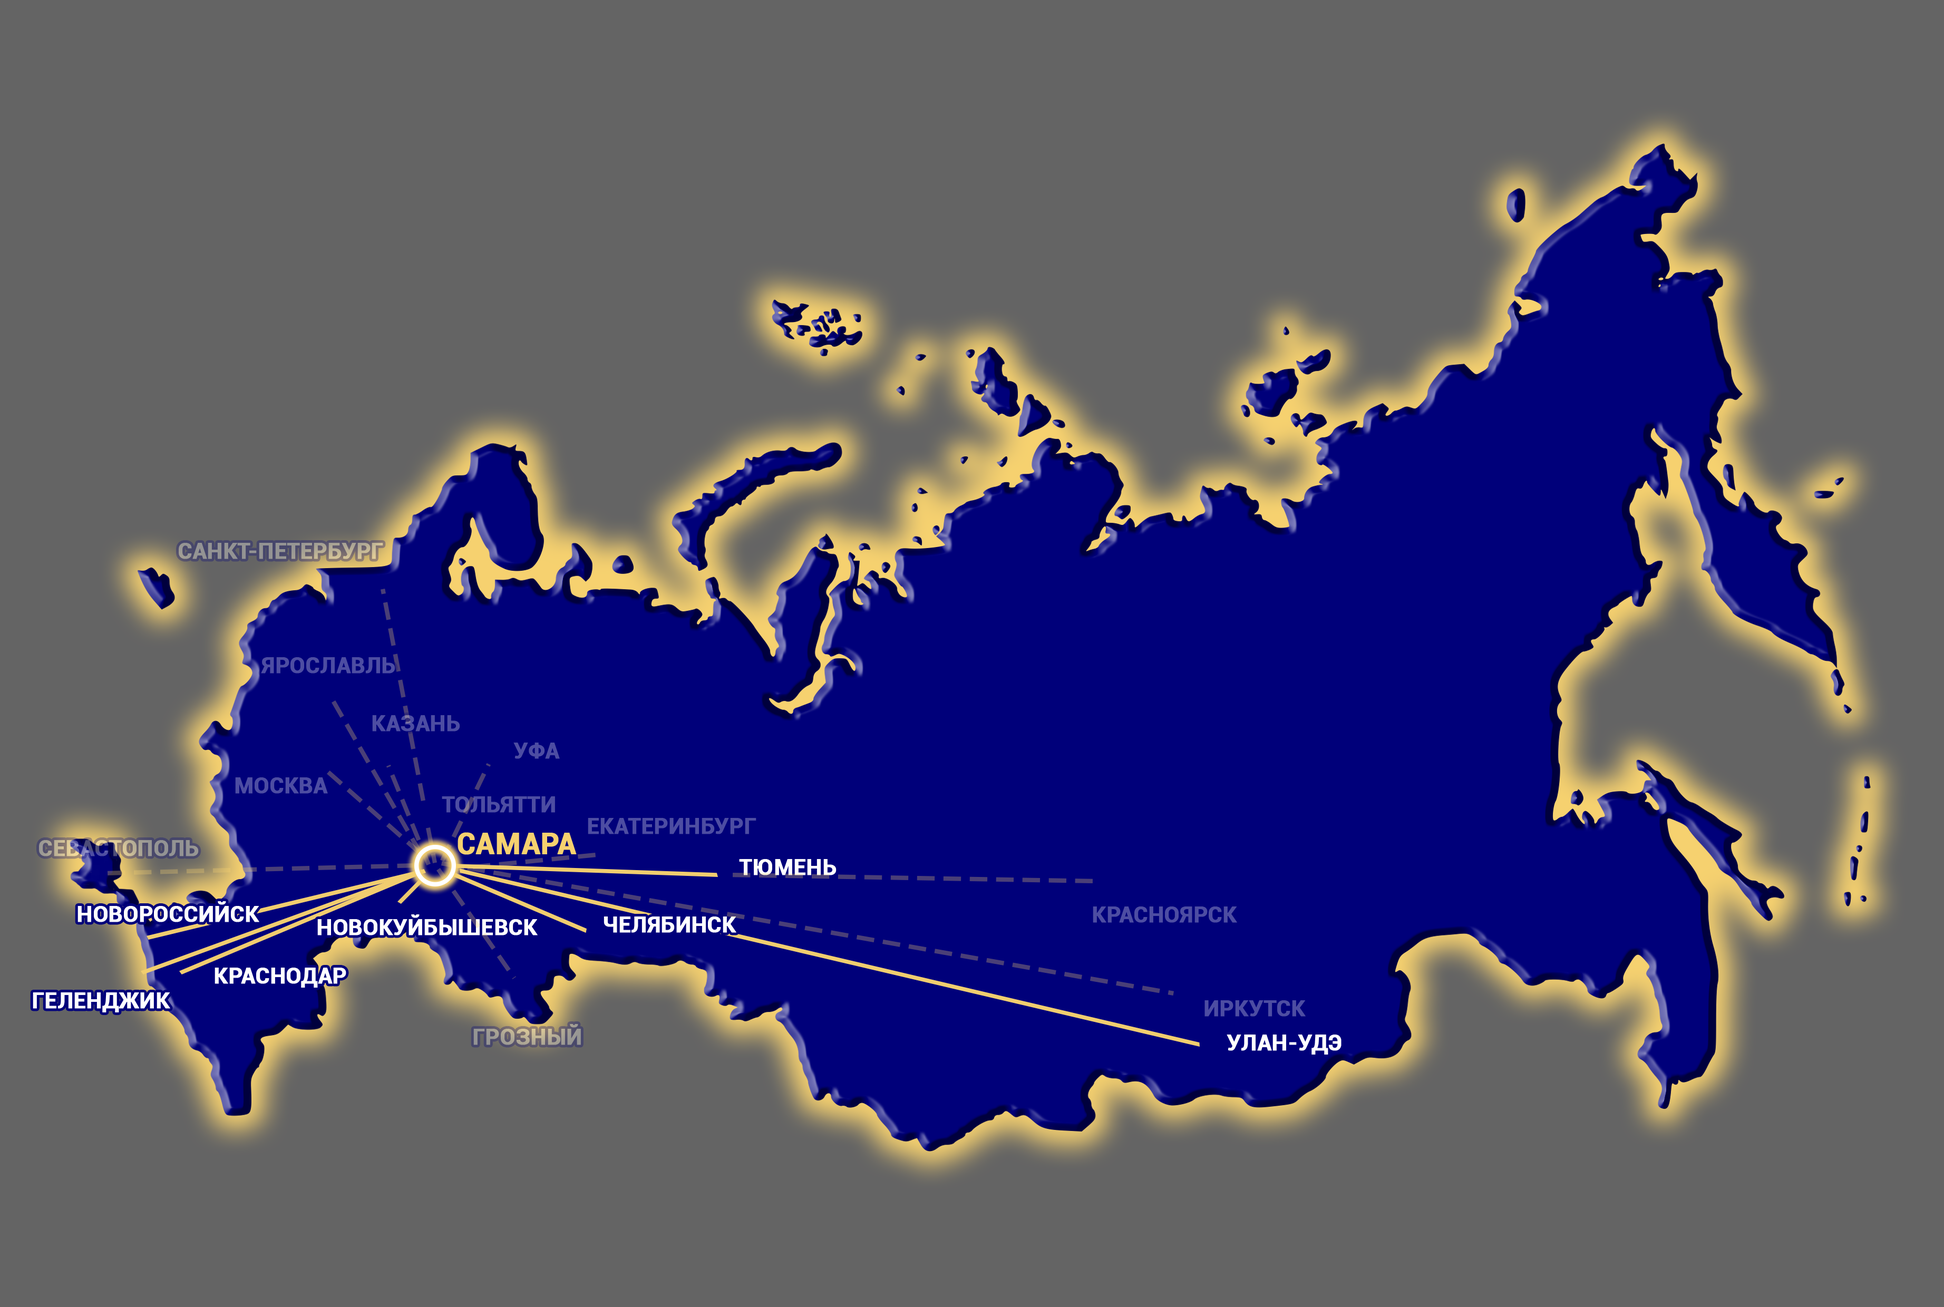
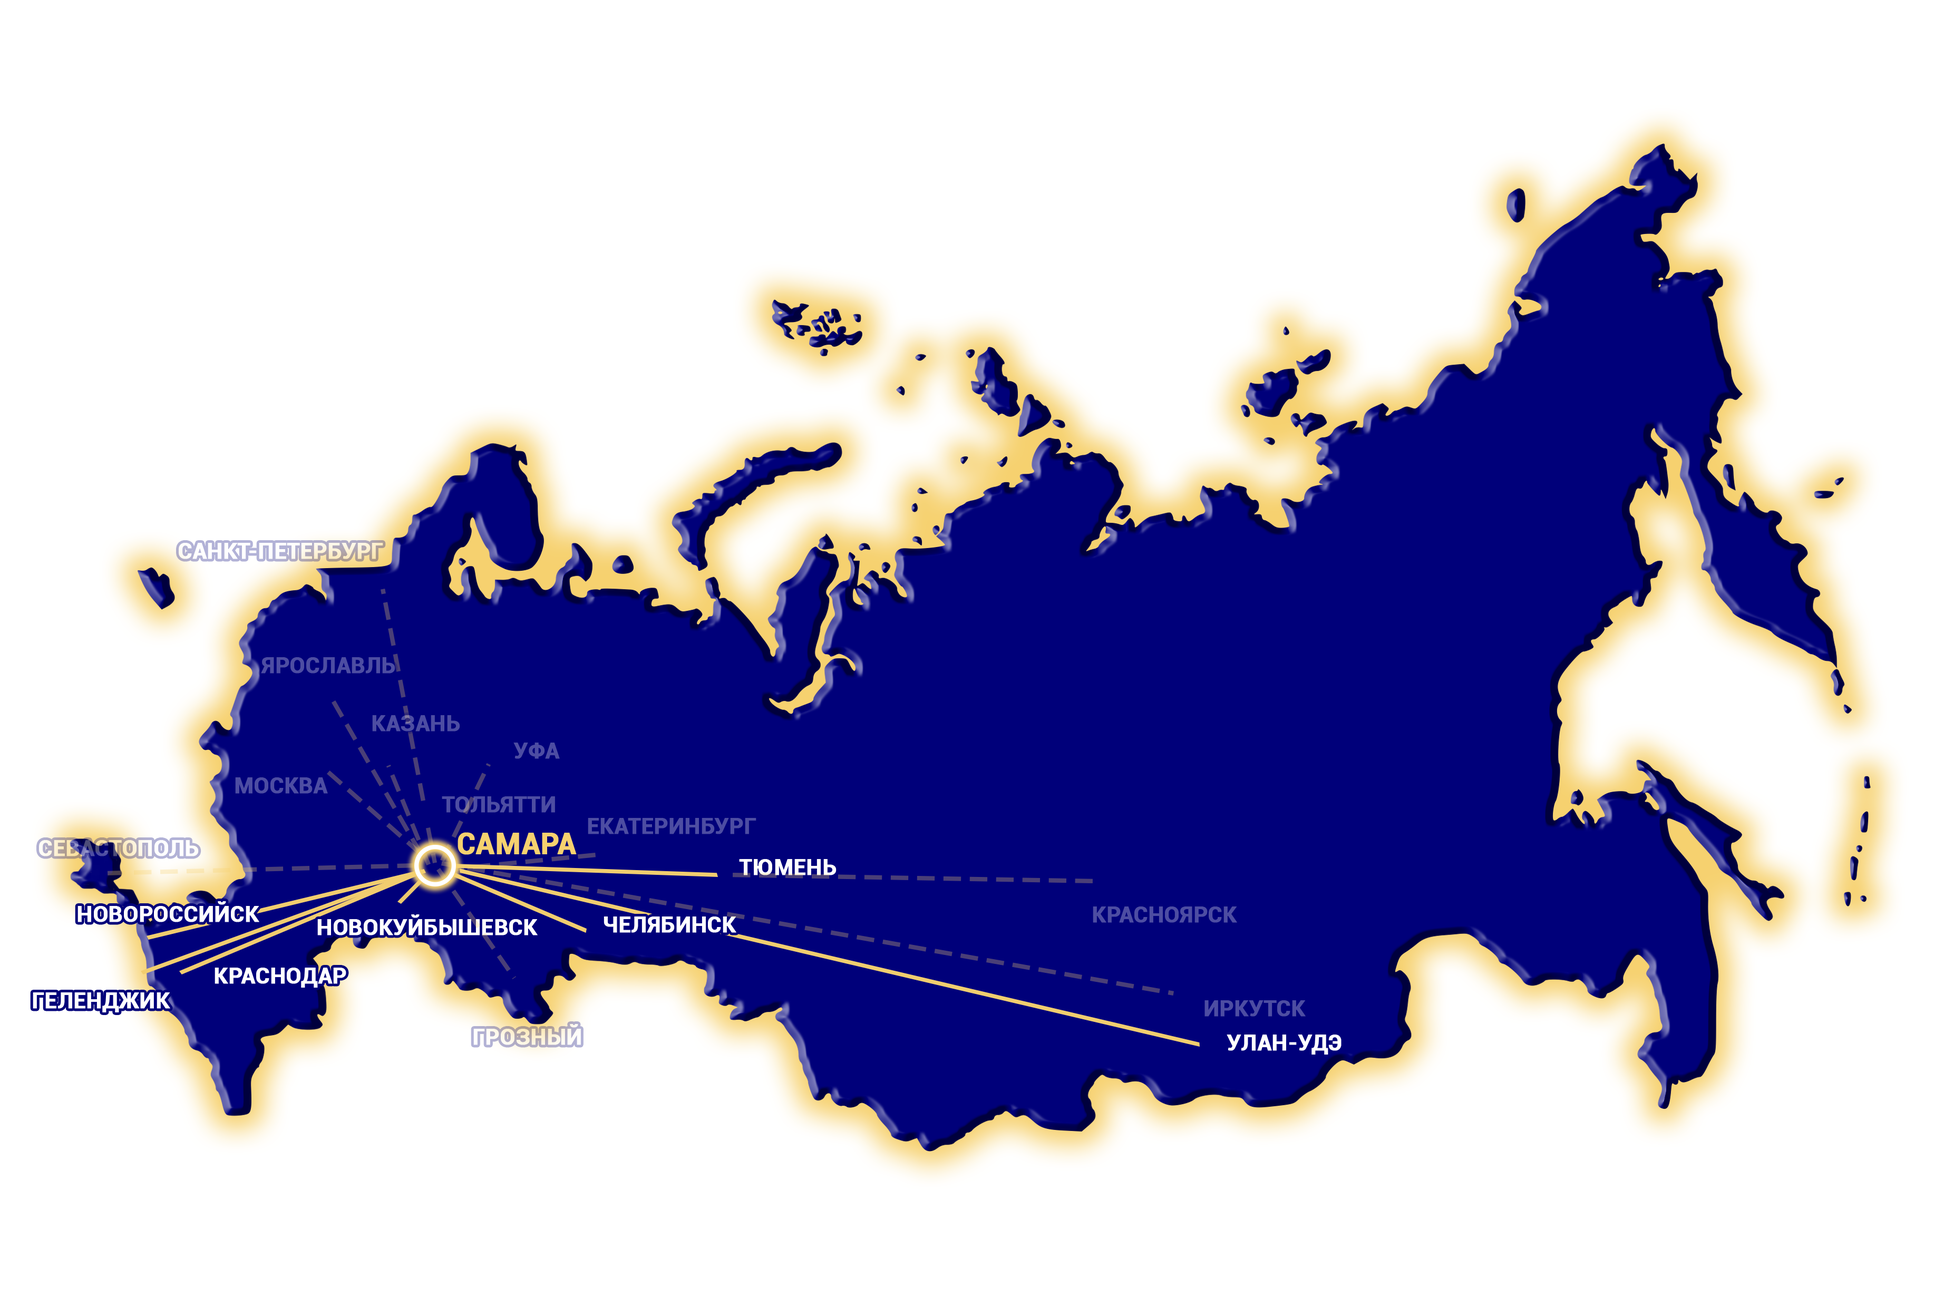
s

diff --git a/karta/css/style.min.css b/karta/css/style.min.css
@@ -1,1 +1,1 @@
-*{margin:0;padding:0;-webkit-tap-highlight-color:rgba(0,0,0,0)}.karta{margin:0 auto;background:url(../img/Карта1.png);height:500px;position:relative;width:800px;background-repeat:no-repeat;background-position:center;background-size:100%}.karta__active{width:6px;position:absolute;height:6px;border-radius:50%;border:1px solid #dabd6d;box-shadow:0 0 2px 2px #dabd6d;cursor:pointer;-webkit-animation:boxShadowPulse .9s infinite linear;animation:boxShadowPulse .9s infinite linear;animation-direction:alternate-reverse;background-color:#00007a}.karta__not-active{width:6px;position:absolute;height:6px;border-radius:50%;border:1px solid #393177;box-shadow:0 0 2px 2px #7066b8;background-color:#00007a;cursor:pointer}#tolyati{top:313px;left:21.3%}#tolyati:hover::before{-webkit-animation:pulse 1s;animation:pulse 1s;content:"";width:200px;position:absolute;top:-100px;left:10px;background-image:url(../img/Всплывашка_7.png);background-size:cover;height:100px;z-index:1}.pulse{top:333px;width:3px;position:absolute;height:3px;border-radius:50%;border:1px solid #dabd6d;background-color:#dabd6d;left:175.4px}#samara{top:333px;left:175.4px}#samara:hover::before{-webkit-animation:pulse 1s;animation:pulse 1s;content:"";width:200px;position:absolute;top:-100px;left:10px;z-index:1;background-image:url(../img/Всплывашка_1.png);background-size:cover;height:100px}#chelyabinsk{top:360px;left:236px}#chelyabinsk:hover::before{-webkit-animation:pulses 1s;animation:pulses 1s;content:"";width:210px;position:absolute;top:-100px;z-index:1;left:10px;background-image:url(../img/ВсплывашкаЧелябинск.png);background-size:cover;height:100px}#chelyabinsk:focus::before{-webkit-animation:pulse 1s;animation:pulse 1s;content:"";width:200px;z-index:1;position:absolute;top:-100px;left:10px;background-image:url(../img/Всплывашка_2.png);background-size:cover;height:100px}#newKub{top:348px;left:161px}#newKub:hover::before{-webkit-animation:pulses 1s;animation:pulses 1s;content:"";width:210px;position:absolute;z-index:1;top:-100px;left:10px;background-image:url(../img/ВсплывашкаНовокуйбышевск.png);background-size:cover;height:100px}#newKub:focus::before{-webkit-animation:pulse 1s;animation:pulse 1s;content:"";width:200px;z-index:1;position:absolute;top:-100px;left:10px;background-image:url(../img/Всплывашка_3.png);background-size:cover;height:100px}#newRos{top:363px;box-shadow:0 0 1px 2px #ffdb77;left:56px}#newRos:hover::before{-webkit-animation:pulse 1s;animation:pulse 1s;content:"";width:200px;z-index:1;position:absolute;top:-100px;left:10px;background-image:url(../img/Всплывашка_5.png);background-size:cover;height:100px}#newRos:focus::before{-webkit-animation:pulse 1s;animation:pulse 1s;content:"";width:200px;position:absolute;top:-100px;z-index:1;left:10px;background-image:url(../img/Всплывашка_5.png);background-size:cover;height:100px}#gelendgik{top:377px;box-shadow:0 0 1px 2px #ffdb77;left:55px}#gelendgik:hover::before{-webkit-animation:pulses 1s;animation:pulses 1s;content:"";width:210px;z-index:1;position:absolute;top:-100px;left:10px;background-image:url(../img/ВсплывашкаГеленджик.png);background-size:cover;height:100px}#gelendgik:focus::before{-webkit-animation:pulse 1s;animation:pulse 1s;content:"";width:200px;position:absolute;top:-100px;z-index:1;left:10px;background-image:url(../img/ВсплывашкаГеленджик.png);background-size:cover;height:100px}#krasnodar{top:376px;box-shadow:0 0 1px 2px #ffdb77;left:74px}#krasnodar:hover::before{-webkit-animation:pulses 1s;animation:pulses 1s;content:"";width:210px;position:absolute;z-index:1;top:-100px;left:10px;background-image:url(../img/ВсплывашкаКраснодар.png);background-size:cover;height:100px}#krasnodar:focus::before{-webkit-animation:pulse 1s;animation:pulse 1s;content:"";width:200px;position:absolute;top:-100px;z-index:1;left:10px;background-image:url(../img/ВсплывашкаКраснодар.png);background-size:cover;height:100px}#tumen{top:337px;left:292px}#tumen:hover::before{-webkit-animation:pulses 1s;animation:pulses 1s;content:"";width:210px;position:absolute;z-index:1;top:-100px;left:10px;background-image:url(../img/ВсплывашкаТюмень.png);background-size:cover;height:100px}#ulan{top:406px;left:491px}#ulan:hover::before{-webkit-animation:pulses 1s;animation:pulses 1s;content:"";width:210px;z-index:1;position:absolute;top:-100px;left:10px;background-image:url(../img/ВсплывашкаУлан-Удэ.png);background-size:cover;height:100px}#moscow{top:289px;left:126px}#moscow:hover::before{-webkit-animation:pulse 1s;animation:pulse 1s;content:"";z-index:1;width:200px;position:absolute;top:-100px;left:10px;background-image:url(../img/Всплывашка_6.png);background-size:cover;height:100px}#ekaterenburg{top:328px;left:249px}#ekaterenburg:hover::before{-webkit-animation:pulse 1s;animation:pulse 1s;content:"";width:200px;position:absolute;top:-100px;left:10px;background-image:url(../img/Всплывашка_7.png);background-size:cover;height:100px;z-index:1}#sevastopol{top:336px;left:30px}#sevastopol:hover::before{-webkit-animation:pulse 1s;animation:pulse 1s;content:"";width:200px;position:absolute;top:-100px;left:10px;background-image:url(../img/Всплывашка_7.png);background-size:cover;height:100px;z-index:1}#yaroslavl{top:261px;left:130px}#yaroslavl:hover::before{-webkit-animation:pulse 1s;animation:pulse 1s;content:"";width:200px;position:absolute;top:-100px;left:10px;background-image:url(../img/Всплывашка_7.png);background-size:cover;height:100px;z-index:1}#kazan{top:287px;left:153px}#kazan:hover::before{-webkit-animation:pulse 1s;animation:pulse 1s;content:"";width:200px;position:absolute;top:-100px;left:10px;background-image:url(../img/Всплывашка_7.png);background-size:cover;height:100px;z-index:1}#ufa{top:286px;left:199px}#ufa:hover::before{-webkit-animation:pulse 1s;animation:pulse 1s;content:"";width:200px;position:absolute;top:-100px;left:10px;background-image:url(../img/Всплывашка_7.png);background-size:cover;height:100px;z-index:1}#krasnoyarsk{top:339px;left:450px}#krasnoyarsk:hover::before{-webkit-animation:pulse 1s;animation:pulse 1s;content:"";width:200px;position:absolute;top:-100px;left:10px;background-image:url(../img/Всплывашка_7.png);background-size:cover;height:100px;z-index:1}#irkutsk{top:386px;left:483.5px}#irkutsk:hover::before{-webkit-animation:pulse 1s;animation:pulse 1s;content:"";width:200px;position:absolute;top:-100px;left:10px;background-image:url(../img/Всплывашка_7.png);background-size:cover;height:100px;z-index:1}#grosniy{top:385px;left:212px}#grosniy:hover::before{-webkit-animation:pulse 1s;animation:pulse 1s;content:"";width:200px;position:absolute;top:-100px;left:10px;background-image:url(../img/Всплывашка_7.png);background-size:cover;height:100px;z-index:1}#peterburg{top:214px;left:152px}#peterburg:hover::before{-webkit-animation:pulse 1s;animation:pulse 1s;content:"";width:200px;position:absolute;top:-100px;left:10px;background-image:url(../img/Всплывашка_7.png);background-size:cover;height:100px;z-index:1}@-webkit-keyframes pulse{0%{width:0}100%{width:200px}}@keyframes pulse{0%{width:0}100%{width:200px}}@-webkit-keyframes boxShadowPulse{0%{box-shadow:0 0 2px 2px #dabd6d}75%{box-shadow:0 0 2px 2px #dabd6d}100%{box-shadow:0 0 3px 5px #dabd6d}}@keyframes boxShadowPulse{0%{box-shadow:0 0 2px 2px #dabd6d}75%{box-shadow:0 0 2px 2px #dabd6d}100%{box-shadow:0 0 3px 5px #dabd6d}}
+*{margin:0;padding:0;-webkit-tap-highlight-color:rgba(0,0,0,0)}.karta,.karta2{margin:0 auto;background:url(../img/Карта1.png);height:500px;position:relative;width:800px;background-repeat:no-repeat;background-position:center;background-size:100%}.karta2__active,.karta__active{width:6px;position:absolute;height:6px;border-radius:50%;border:1px solid #dabd6d;box-shadow:0 0 2px 2px #dabd6d;cursor:pointer;-webkit-animation:boxShadowPulse .9s infinite linear;animation:boxShadowPulse .9s infinite linear;animation-direction:alternate-reverse;background-color:#00007a}.karta2__not-active,.karta__not-active{width:6px;position:absolute;height:6px;border-radius:50%;border:1px solid #b5adf1;box-shadow:0 0 2px 2px #b3addf;background-color:#00007a;cursor:pointer}.karta2{background:url(../img/Карта2.png)}#tolyati{top:313px;left:21.3%}#tolyati:hover::before{-webkit-animation:pulse 1s;animation:pulse 1s;content:"";width:200px;position:absolute;top:-100px;left:10px;background-image:url(../img/Всплывашка_7.png);background-size:cover;height:100px;z-index:1}.pulse{top:333px;width:3px;position:absolute;height:3px;border-radius:50%;border:1px solid #dabd6d;background-color:#dabd6d;left:175.4px}#samara{top:333px;left:175.4px}#samara:hover::before{-webkit-animation:pulse 1s;animation:pulse 1s;content:"";width:200px;position:absolute;top:-100px;left:10px;z-index:1;background-image:url(../img/Всплывашка_1.png);background-size:cover;height:100px}#chelyabinsk{top:360px;left:236px}#chelyabinsk:hover::before{-webkit-animation:pulses 1s;animation:pulses 1s;content:"";width:210px;position:absolute;top:-100px;z-index:1;left:10px;background-image:url(../img/ВсплывашкаЧелябинск.png);background-size:cover;height:100px}#chelyabinsk:focus::before{-webkit-animation:pulse 1s;animation:pulse 1s;content:"";width:200px;z-index:1;position:absolute;top:-100px;left:10px;background-image:url(../img/Всплывашка_2.png);background-size:cover;height:100px}#newKub{top:348px;left:161px}#newKub:hover::before{-webkit-animation:pulses 1s;animation:pulses 1s;content:"";width:210px;position:absolute;z-index:1;top:-100px;left:10px;background-image:url(../img/ВсплывашкаНовокуйбышевск.png);background-size:cover;height:100px}#newKub:focus::before{-webkit-animation:pulse 1s;animation:pulse 1s;content:"";width:200px;z-index:1;position:absolute;top:-100px;left:10px;background-image:url(../img/Всплывашка_3.png);background-size:cover;height:100px}#newRos{top:363px;box-shadow:0 0 1px 2px #ffdb77;left:56px}#newRos:hover::before{-webkit-animation:pulse 1s;animation:pulse 1s;content:"";width:200px;z-index:1;position:absolute;top:-100px;left:10px;background-image:url(../img/Всплывашка_5.png);background-size:cover;height:100px}#newRos:focus::before{-webkit-animation:pulse 1s;animation:pulse 1s;content:"";width:200px;position:absolute;top:-100px;z-index:1;left:10px;background-image:url(../img/Всплывашка_5.png);background-size:cover;height:100px}#gelendgik{top:377px;box-shadow:0 0 1px 2px #ffdb77;left:55px}#gelendgik:hover::before{-webkit-animation:pulses 1s;animation:pulses 1s;content:"";width:210px;z-index:1;position:absolute;top:-100px;left:10px;background-image:url(../img/ВсплывашкаГеленджик.png);background-size:cover;height:100px}#gelendgik:focus::before{-webkit-animation:pulse 1s;animation:pulse 1s;content:"";width:200px;position:absolute;top:-100px;z-index:1;left:10px;background-image:url(../img/ВсплывашкаГеленджик.png);background-size:cover;height:100px}#krasnodar{top:376px;box-shadow:0 0 1px 2px #ffdb77;left:74px}#krasnodar:hover::before{-webkit-animation:pulses 1s;animation:pulses 1s;content:"";width:210px;position:absolute;z-index:1;top:-100px;left:10px;background-image:url(../img/ВсплывашкаКраснодар.png);background-size:cover;height:100px}#krasnodar:focus::before{-webkit-animation:pulse 1s;animation:pulse 1s;content:"";width:200px;position:absolute;top:-100px;z-index:1;left:10px;background-image:url(../img/ВсплывашкаКраснодар.png);background-size:cover;height:100px}#tumen{top:337px;left:292px}#tumen:hover::before{-webkit-animation:pulses 1s;animation:pulses 1s;content:"";width:210px;position:absolute;z-index:1;top:-100px;left:10px;background-image:url(../img/ВсплывашкаТюмень.png);background-size:cover;height:100px}#ulan{top:406px;left:491px}#ulan:hover::before{-webkit-animation:pulses 1s;animation:pulses 1s;content:"";width:210px;z-index:1;position:absolute;top:-100px;left:10px;background-image:url(../img/ВсплывашкаУлан-Удэ.png);background-size:cover;height:100px}#moscow{top:289px;left:126px}#moscow:hover::before{-webkit-animation:pulse 1s;animation:pulse 1s;content:"";z-index:1;width:200px;position:absolute;top:-100px;left:10px;background-image:url(../img/Всплывашка_6.png);background-size:cover;height:100px}#ekaterenburg{top:328px;left:249px}#ekaterenburg:hover::before{-webkit-animation:pulse 1s;animation:pulse 1s;content:"";width:200px;position:absolute;top:-100px;left:10px;background-image:url(../img/Всплывашка_7.png);background-size:cover;height:100px;z-index:1}#sevastopol{top:336px;left:30px}#sevastopol:hover::before{-webkit-animation:pulse 1s;animation:pulse 1s;content:"";width:200px;position:absolute;top:-100px;left:10px;background-image:url(../img/Всплывашка_7.png);background-size:cover;height:100px;z-index:1}#yaroslavl{top:261px;left:130px}#yaroslavl:hover::before{-webkit-animation:pulse 1s;animation:pulse 1s;content:"";width:200px;position:absolute;top:-100px;left:10px;background-image:url(../img/Всплывашка_7.png);background-size:cover;height:100px;z-index:1}#kazan{top:287px;left:153px}#kazan:hover::before{-webkit-animation:pulse 1s;animation:pulse 1s;content:"";width:200px;position:absolute;top:-100px;left:10px;background-image:url(../img/Всплывашка_7.png);background-size:cover;height:100px;z-index:1}#ufa{top:286px;left:199px}#ufa:hover::before{-webkit-animation:pulse 1s;animation:pulse 1s;content:"";width:200px;position:absolute;top:-100px;left:10px;background-image:url(../img/Всплывашка_7.png);background-size:cover;height:100px;z-index:1}#krasnoyarsk{top:339px;left:450px}#krasnoyarsk:hover::before{-webkit-animation:pulse 1s;animation:pulse 1s;content:"";width:200px;position:absolute;top:-100px;left:10px;background-image:url(../img/Всплывашка_7.png);background-size:cover;height:100px;z-index:1}#irkutsk{top:386px;left:483.5px}#irkutsk:hover::before{-webkit-animation:pulse 1s;animation:pulse 1s;content:"";width:200px;position:absolute;top:-100px;left:10px;background-image:url(../img/Всплывашка_7.png);background-size:cover;height:100px;z-index:1}#grosniy{top:385px;left:212px}#grosniy:hover::before{-webkit-animation:pulse 1s;animation:pulse 1s;content:"";width:200px;position:absolute;top:-100px;left:10px;background-image:url(../img/Всплывашка_7.png);background-size:cover;height:100px;z-index:1}#peterburg{top:214px;left:152px}#peterburg:hover::before{-webkit-animation:pulse 1s;animation:pulse 1s;content:"";width:200px;position:absolute;top:-100px;left:10px;background-image:url(../img/Всплывашка_7.png);background-size:cover;height:100px;z-index:1}@-webkit-keyframes pulse{0%{width:0}100%{width:200px}}@keyframes pulse{0%{width:0}100%{width:200px}}@-webkit-keyframes boxShadowPulse{0%{box-shadow:0 0 2px 2px #dabd6d}75%{box-shadow:0 0 2px 2px #dabd6d}100%{box-shadow:0 0 3px 5px #dabd6d}}@keyframes boxShadowPulse{0%{box-shadow:0 0 2px 2px #dabd6d}75%{box-shadow:0 0 2px 2px #dabd6d}100%{box-shadow:0 0 3px 5px #dabd6d}}

diff --git a/karta/index.html b/karta/index.html
@@ -35,6 +35,34 @@
         <div id="grosniy" class="karta__not-active"></div>
         <div id="peterburg" class="karta__not-active"></div>
     </div>
+    <div class="karta2">
+        <div id="pulse0" class="pulse"></div>
+        <div id="pulse1" class="pulse"></div>
+        <div id="pulse2" class="pulse"></div>
+        <div id="pulse3" class="pulse"></div>
+        <div id="pulse4" class="pulse"></div>
+        <div id="pulse5" class="pulse"></div>
+        <div id="pulse6" class="pulse"></div>
+        <div id='tolyati' class="karta__not-active"></div>
+        <div id='samara' class="karta__active"></div>
+        <div id="chelyabinsk" class="karta__active"></div>
+        <div id='newKub' class="karta__active"></div>
+        <div id="newRos" class="karta__active"></div>
+        <div id="gelendgik" class="karta__active"></div>
+        <div id="krasnodar" class="karta__active"></div>
+        <div id="tumen" class="karta__active"></div>
+        <div id="ulan" class="karta__active"></div>
+        <div id="moscow" class="karta__not-active"></div>
+        <div id="ekaterenburg" class="karta__not-active"></div>
+        <div id="sevastopol" class="karta__not-active"></div>
+        <div id="yaroslavl" class="karta__not-active"></div>
+        <div id="kazan" class="karta__not-active"></div>
+        <div id="ufa" class="karta__not-active"></div>
+        <div id="krasnoyarsk" class="karta__not-active"></div>
+        <div id="irkutsk" class="karta__not-active"></div>
+        <div id="grosniy" class="karta__not-active"></div>
+        <div id="peterburg" class="karta__not-active"></div>
+    </div>
     <script src="https://ajax.googleapis.com/ajax/libs/jquery/3.5.1/jquery.min.js"></script>
     <script src="js/anime.min.js"></script>
     <script src="js/script.js"></script>

diff --git a/karta/sass/style.sass b/karta/sass/style.sass
@@ -17,7 +17,7 @@
             z-index: 1
 
     
-.karta
+.karta, .karta2
     margin: 0 auto
     background: url(../img/Карта1.png)
     height: 500px
@@ -42,12 +42,13 @@
         position: absolute
         height: 6px
         border-radius: 50%
-        border: 1px solid #393177
-        box-shadow: 0 0 2px 2px #7066b8
+        border: 1px solid #b5adf1
+        box-shadow: 0 0 2px 2px #b3addf
         background-color: #00007A
         cursor: pointer
 
-
+.karta2
+    background: url(../img/Карта2.png)
 #tolyati
     top: 313px
     left: 21.3%

diff --git a/karta/js/script.js b/karta/js/script.js
@@ -1,7 +1,3 @@
-
-
-
-
     anime({
         targets: '#pulse0',
         translateX: 60,
